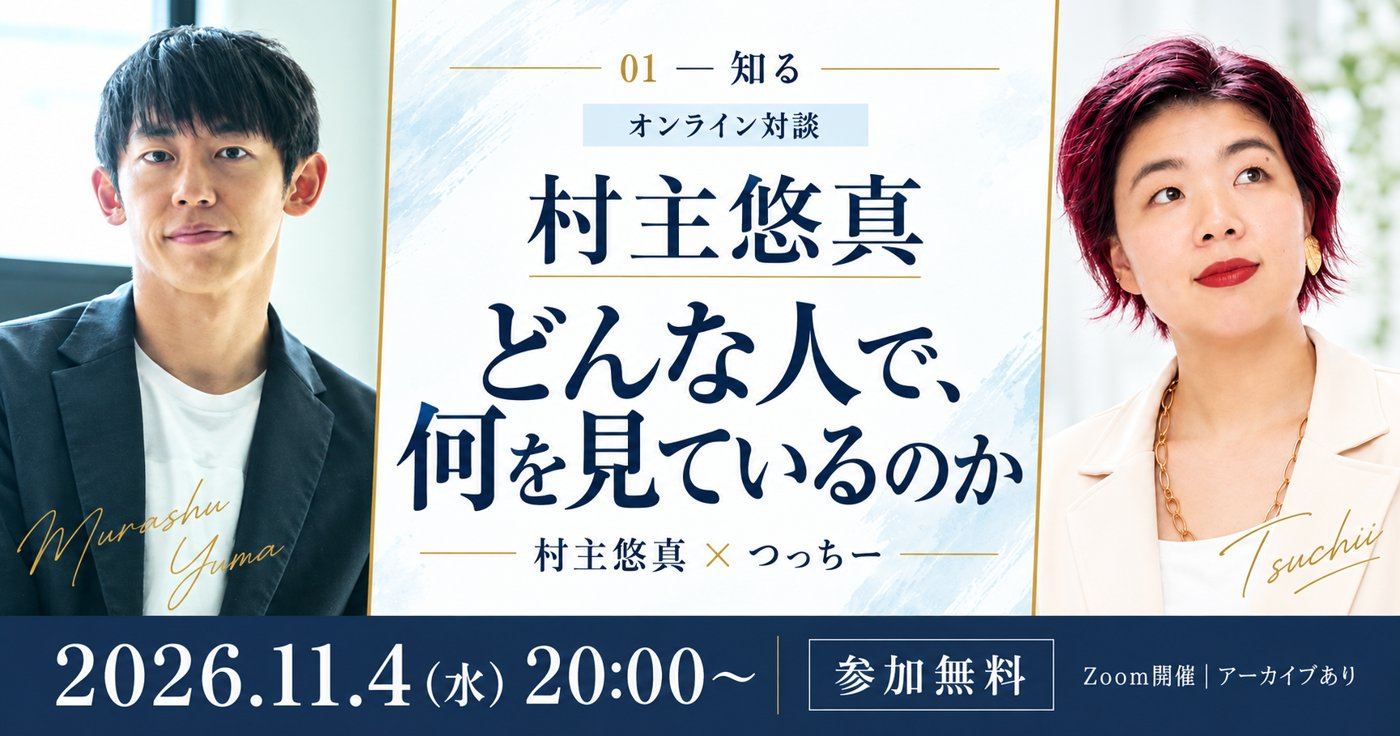
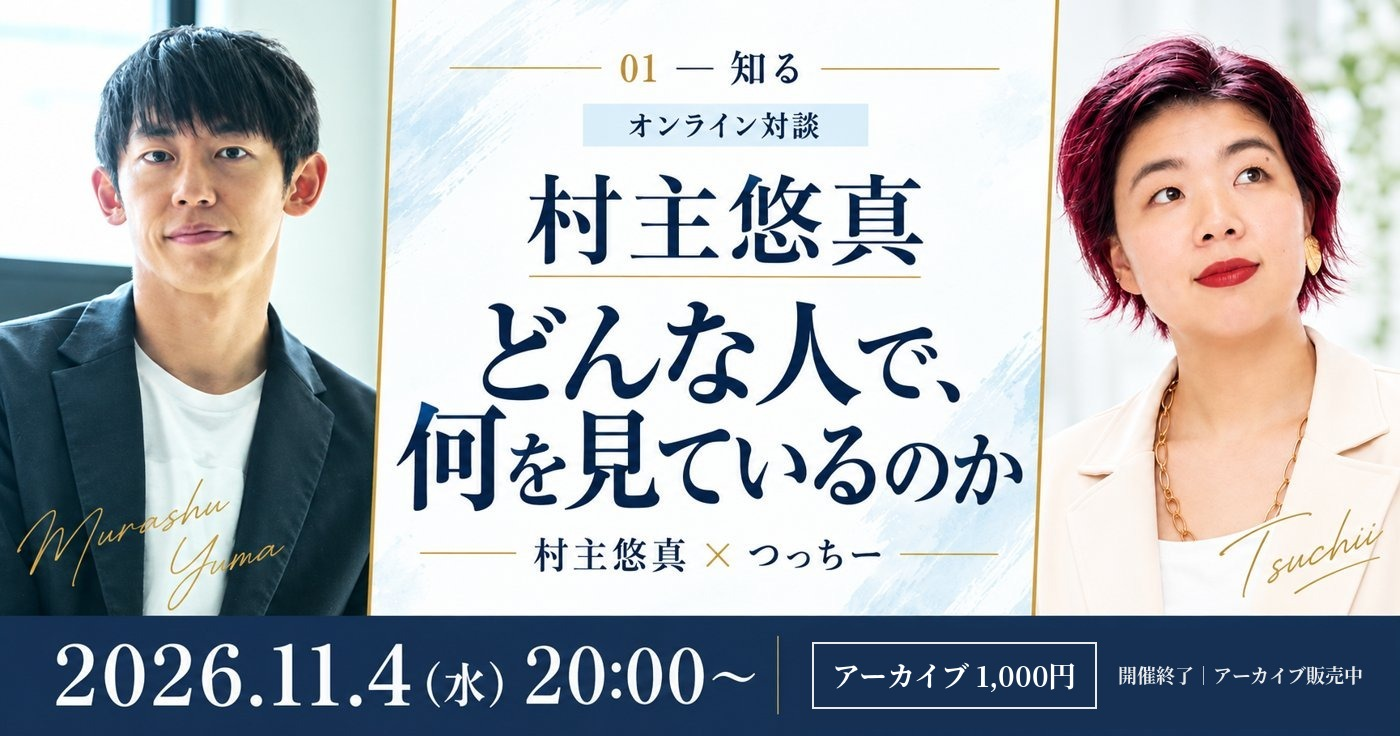
Sell 11/4 archive for 1000 yen; send URL after payment

Changed region(s): [[0.5529, 0.8438, 0.9829, 0.9688]]

diff --git a/index.html b/index.html
@@ -5,9 +5,9 @@
 <meta name="google-site-verification" content="YMH1QN5u1BnWx0jN7KNCxugnaE7Qu_VM-VJC9j54nH0" />
 <link rel="canonical" href="https://murasu-dampatsu-lp.vercel.app/">
 <meta name="viewport" content="width=device-width, initial-scale=1">
-<meta name="description" content="村主悠真×つっちー「2027年をどう生きるか」。11/4オンライン対談（無料）、11/27講演会6,600円（会場・オンライン）・講演会＋懇親会セット15,500円（限定30名）、12/21虚点11,000円（会場は限定20名・オンラインあり）。11月・12月の両方に参加できる「冬の通し券」24,400円・ライト15,800円もあり。ペア割は1人1,500円オフ。講演会・セットは学生半額。">
+<meta name="description" content="村主悠真×つっちー「2027年をどう生きるか」。11/4オンライン対談アーカイブ1,000円、11/27講演会6,600円（会場・オンライン）・講演会＋懇親会セット15,500円（限定30名）、12/21虚点11,000円（会場は限定20名・オンラインあり）。11月・12月の両方に参加できる「冬の通し券」24,400円・ライト15,800円もあり。ペア割は1人1,500円オフ。講演会・セットは学生半額。">
 <meta property="og:title" content="2027年をどう生きるか ─ 村主悠真 × つっちー">
-<meta property="og:description" content="村主悠真×つっちー。11/4オンライン対談（無料）／11/27講演会6,600円（会場・オンライン）・講演会＋懇親会セット15,500円（限定30名）／12/21虚点11,000円（会場は限定20名・オンラインあり）／冬の通し券24,400円・ライト15,800円。ペア割は1人1,500円オフ。講演会・セットは学生半額。">
+<meta property="og:description" content="村主悠真×つっちー。11/4オンライン対談アーカイブ1,000円／11/27講演会6,600円（会場・オンライン）・講演会＋懇親会セット15,500円（限定30名）／12/21虚点11,000円（会場は限定20名・オンラインあり）／冬の通し券24,400円・ライト15,800円。ペア割は1人1,500円オフ。講演会・セットは学生半額。">
 <meta property="og:image" content="https://murasu-dampatsu-lp.vercel.app/og2.jpg">
 <title>2027年をどう生きるか ─ 村主悠真 × つっちー</title>
 <link rel="stylesheet" href="https://fonts.googleapis.com/css2?family=Shippori+Mincho:wght@500;700;800&family=Noto+Sans+JP:wght@400;500&family=Cormorant+Garamond:wght@500&display=swap">
@@ -268,7 +268,7 @@ footer{text-align:center;font-size:12px;color:var(--mu);padding:36px 0 56px;back
    <div class="hook">急きょ開催決定。<br>年明けからはなかなかお会いできなくなるため、<br>村主さんの話を直接聴ける貴重な機会です。</div>
    <div class="hcta">
     <a class="btn big" href="#apply">参加を申し込む<span class="arw">→</span></a>
-    <ul class="hpoints"><li class="early">11/6（金）までの申し込みで11/27が<b>1,000円オフ</b></li><li>11/4 オンライン対談は<b>無料</b></li><li><b>1回だけ</b>の参加もOK</li><li>申し込みは<b>1分</b>で完了</li></ul>
+    <ul class="hpoints"><li class="early">11/6（金）までの申し込みで11/27が<b>1,000円オフ</b></li><li>11/4 対談の<b>アーカイブ販売中</b>（1,000円）</li><li><b>1回だけ</b>の参加もOK</li><li>申し込みは<b>1分</b>で完了</li></ul>
    </div>
   </div>
   <div class="duo">
@@ -281,7 +281,7 @@ footer{text-align:center;font-size:12px;color:var(--mu);padding:36px 0 56px;back
 
 <section class="sched">
  <div class="wrap">
-  <div class="row"><div class="d">11/4<small>（水）</small><span style="font-size:22px">20時〜</span></div><div class="w">オンライン対談<small>（Zoom・アーカイブあり）</small></div></div>
+  <div class="row"><div class="d">11/4<small>（水）</small><span style="font-size:22px">20時〜</span></div><div class="w">オンライン対談<small>（開催終了・アーカイブ販売中 1,000円）</small></div></div>
   <div class="row"><div class="d">11/27<small>（金）</small><span style="font-size:22px">18:00〜21:00</span></div><div class="w">講演会＆懇親会　<span class="loc">会場：東京都内</span><small>（講演会はオンライン参加・アーカイブあり）</small></div></div>
   <div class="row"><div class="d">12/21<small>（月）</small><span style="font-size:22px">18:00〜21:00</span></div><div class="w">虚点　<span class="loc">会場：東京都内</span><small>（対談＋交流会／オンライン・アーカイブあり）</small></div></div>
  </div>
@@ -379,10 +379,10 @@ footer{text-align:center;font-size:12px;color:var(--mu);padding:36px 0 56px;back
   <h2>3つのイベント</h2>
 
   <div class="night">
-   <img class="nbn" src="ev1104.jpg" alt="11/4 オンライン対談のバナー" loading="lazy">
+   <img class="nbn" src="ev1104.jpg?v=2" alt="11/4 オンライン対談のバナー" loading="lazy">
    <div><div class="no">01 ─ 知る</div><div class="date">11.4<small>水</small></div></div>
    <div>
-    <span class="tag">オンライン対談</span> <span class="tag">アーカイブあり</span>
+    <span class="tag">オンライン対談</span> <span class="tag loc2">開催終了・アーカイブ販売中</span>
     <h3>村主悠真<br>─ どんな人で、何を見ているのか</h3>
     <p>村主悠真 × つっちーの対談。村主さんがどんな人生を歩み、今どんなことを考えているのか。そして、社会・お金・人のつながり、AI、戦争と世界平和など、2027年に向けて時代がどう変わっていくのかを、村主さんの視点であらためてお話しいただきます。はじめての人も、これまで村主さんの話を聴いてきた人も楽しめる時間です。</p>
     <div class="more">
@@ -390,7 +390,7 @@ footer{text-align:center;font-size:12px;color:var(--mu);padding:36px 0 56px;back
      <div class="mh">こんな人におすすめ</div><p class="rec">村主さんの話をはじめて聴く人／これまで聴いてきたけれど、今の村主さんの視点をあらためて聴きたい人／AIや戦争など、世界の変化をどう受け止めればいいか知りたい人</p>
      <div class="mh">当日の流れ</div><ol class="flow"><li>20:00 対談スタート</li><li>村主さんの歩みと、いま考えていること</li><li>社会・お金・AI・戦争と世界平和から見る、2027年の時代の変化</li><li>参加者からの質問</li><li>11/27・12/21のご案内</li></ol>
     </div>
-    <dl><dt>時間</dt><dd>20:00〜</dd><dt>場所</dt><dd>オンライン（Zoom／参加URLは、お申し込みの方にメールとオープンチャットでお知らせ）</dd><dt>参加費</dt><dd>無料</dd><dt>アーカイブ</dt><dd>あり（当日参加できなくても、あとから見られます）</dd></dl>
+    <dl><dt>開催</dt><dd>2026年11月4日（水）20:00〜　オンラインで開催しました</dd><dt>アーカイブ</dt><dd><b>1,000円</b>（お支払いを確認したあと、視聴URLをメールでお送りします）</dd></dl>
    </div>
   </div>
 
@@ -509,7 +509,7 @@ footer{text-align:center;font-size:12px;color:var(--mu);padding:36px 0 56px;back
    <p class="note" style="margin-top:10px">※ 通し券は早割の対象外です（ペア割・学生割は使えます）</p>
   </div>
   <div class="price">
-   <div class="card"><div class="t">11/4 オンライン対談</div><div class="y">無料</div><div class="n">まずはここから／アーカイブあり</div></div>
+   <div class="card"><div class="t">11/4 対談アーカイブ</div><div class="y">1,000<small>円</small></div><div class="n">まずはここから／お支払い後に視聴URLをメールでお送りします</div></div>
    <div class="card"><div class="t">11/27 講演会</div><div class="y">6,600<small>円</small></div><div class="n">会場・オンライン同額（アーカイブ付き）／学生 3,300円</div></div>
    <div class="card rec"><div class="t">11/27 講演会＋懇親会<br><small>東京都内</small></div><div class="y">15,500<small>円</small></div><div class="n"><b>限定30名</b>／学生 7,750円<br>懇親会は村主さんに直接質問できるミニグループコンサル<br><span class="seat" data-plan="11/27 講演会＋懇親会セット"></span></div></div>
    <div class="card"><div class="t">12/21 虚点<br><small>東京都内</small></div><div class="y">11,000<small>円</small></div><div class="n">会場（飲み放題・<b>限定20名</b>）／オンライン（アーカイブ付き）<br><span class="seat" data-plan="12/21 虚点"></span></div></div>
@@ -526,8 +526,8 @@ footer{text-align:center;font-size:12px;color:var(--mu);padding:36px 0 56px;back
  <div class="wrap">
   <div class="en">FAQ</div>
   <h2>よくある質問</h2>
-  <details><summary>虚次元のことを何も知らなくても大丈夫？</summary><p>大丈夫です。11/4のオンライン対談は、村主さんの話をはじめて聴く方向けの内容です。</p></details>
-  <details><summary>当日参加できません</summary><p>11/4のオンライン対談、11/27の講演会、12/21の虚点は、どれもアーカイブがあるので、あとから見られます。11/27の講演会と12/21の虚点はオンライン参加もできます。ただ、その場でしか生まれない空気や質問のやりとりもあるので、できればリアルタイムでの参加をおすすめします。</p></details>
+  <details><summary>虚次元のことを何も知らなくても大丈夫？</summary><p>大丈夫です。11/4のオンライン対談は、村主さんの話をはじめて聴く方向けの内容です。アーカイブ（1,000円）で見られるので、まずはここからがおすすめです。</p></details>
+  <details><summary>当日参加できません</summary><p>11/27の講演会と12/21の虚点は、アーカイブがあるので、あとから見られます（11/4の対談もアーカイブを1,000円で販売しています）。11/27の講演会と12/21の虚点はオンライン参加もできます。ただ、その場でしか生まれない空気や質問のやりとりもあるので、できればリアルタイムでの参加をおすすめします。</p></details>
   <details><summary>1回だけの参加もできますか？</summary><p>できます。どの回からでも参加できます。</p></details>
   <details><summary>ペア割はどう使いますか？</summary><p>申し込みフォームで「ペアで申し込む」にチェックを入れ、一緒に参加する方のお名前とメールアドレスを書いてください。お一人につき1,500円オフ（2人で3,000円オフ）になります。</p></details>
   <details><summary>学生割はありますか？</summary><p>11/27の講演会・セットは、学生の方は半額です（講演会3,300円・セット7,750円）。申し込みフォームで「学生です」にチェックを入れてください。当日、学生証を確認させていただく場合があります。</p></details>
@@ -540,12 +540,12 @@ footer{text-align:center;font-size:12px;color:var(--mu);padding:36px 0 56px;back
  <div class="wrap">
   <div class="en">APPLY</div>
   <h2>参加申し込み</h2>
-  <p>まずは無料のオンライン対談（11/4 20時〜）から。</p>
+  <p>11/27・12/21のイベントと、11/4 対談のアーカイブ（1,000円）をお申し込みいただけます。</p>
   <form id="f" class="form" novalidate>
    <label>お名前<em>必須</em><input name="name" required maxlength="100" autocomplete="name"></label>
    <label>メールアドレス<em>必須</em><input name="email" type="email" required maxlength="200" autocomplete="email"></label>
    <fieldset><legend>参加する回<em>1つ以上</em></legend>
-    <label class="ck"><input type="checkbox" name="plan" value="11/4 オンライン対談" data-p="0">11/4（水）オンライン対談<span>無料・アーカイブあり</span></label>
+    <label class="ck"><input type="checkbox" name="plan" value="11/4 対談アーカイブ" data-p="1000" data-arch="1">11/4 オンライン対談 アーカイブ<small class="sub">お支払い確認後、視聴URLをメールでお送りします</small><span>1,000円</span></label>
     <div class="passlbl">★ 11月・12月 両方参加でおトク「冬の通し券」</div>
     <label class="ck passck"><input type="checkbox" name="plan" value="冬の通し券（会場）" data-p="24400" data-g="pass" data-need="11/27 講演会＋懇親会セット,12/21 虚点">冬の通し券（会場）<small class="sub">11/27 講演会＋懇親会 ＋ 12/21 虚点・東京都内</small><span>24,400円（2,100円お得）<em class="seat2" data-need="11/27 講演会＋懇親会セット,12/21 虚点"></em></span></label>
     <label class="ck passck"><input type="checkbox" name="plan" value="冬の通し券 ライト（会場）" data-p="15800" data-g="pass" data-need="12/21 虚点">冬の通し券 ライト・会場<small class="sub">11/27 講演会 ＋ 12/21 虚点・東京都内</small><span>15,800円（1,800円お得）</span></label>
@@ -593,17 +593,17 @@ if(REF){var ri=document.getElementById('referrer');ri.value=REF;var rn=document.
 var EARLY=Date.now()<=Date.parse('2026-11-06T23:59:59+09:00');if(!EARLY)document.querySelectorAll('.early').forEach(function(e){e.remove()});
 var f=document.getElementById('f'),pair=document.getElementById('pair'),pn=document.getElementById('pairname');
 function person(c,stu){
- var p=0;f.querySelectorAll('input[name=plan]:checked').forEach(function(x){var v=+x.dataset.p;if(stu&&(x.value.indexOf('11/27')===0||x.value.indexOf('冬の通し券')===0))v=v/2;p+=v});
+ var p=0;f.querySelectorAll('input[name=plan]:checked').forEach(function(x){if(x.dataset.arch)return;var v=+x.dataset.p;if(stu&&(x.value.indexOf('11/27')===0||x.value.indexOf('冬の通し券')===0))v=v/2;p+=v});
  if(EARLY&&c.some(function(v){return v.indexOf('11/27')===0}))p=Math.max(0,p-1000);
  return p;
 }
 function calc(){
  var c=[].slice.call(f.querySelectorAll('input[name=plan]:checked')).map(function(x){return x.value});
  var stu=document.getElementById('student').checked,pst=document.getElementById('pstudent').checked;
- var a=person(c,stu),p=a,notes=[];
+ var ar=c.indexOf('11/4 対談アーカイブ')>-1?1000:0;var a=person(c,stu),p=a+ar,notes=[];
  if(EARLY&&c.some(function(v){return v.indexOf('11/27')===0}))notes.push('早割（1,000円オフ）');
  if(stu)notes.push('学生半額');
- if(pair.checked){var b=person(c,pst);if(pst&&!stu)notes.push('同伴者 学生半額');p=Math.max(0,a-1500)+Math.max(0,b-1500);if(a>0||b>0)notes.push('2人分・ペア割（1人1,500円オフ）');}
+ if(pair.checked){var b=person(c,pst);if(pst&&!stu)notes.push('同伴者 学生半額');p=Math.max(0,a-1500)+Math.max(0,b-1500)+ar*2;if(a>0||b>0)notes.push('2人分・ペア割（1人1,500円オフ）');}
  document.getElementById('sum').textContent=p.toLocaleString();
  document.getElementById('sumnote').textContent=notes.length?notes.join('／')+' 適用':'';
  pn.hidden=!pair.checked;

diff --git a/api/_lib.js b/api/_lib.js
@@ -6,7 +6,8 @@ const NOTIFY_TO = process.env.NOTIFY_TO || "w.closet.k8114@gmail.com";
 const REPLY_TO = process.env.REPLY_TO || "kyoten.zimukyoku@gmail.com";
 const SITE = "https://murasu-dampatsu-lp.vercel.app";
 const PRICES = { "11/4 オンライン対談": 0, "11/27 講演会": 6600, "11/27 講演会（オンライン）": 6600, "11/27 講演会＋懇親会セット": 15500, "12/21 虚点": 11000, "12/21 虚点（オンライン）": 11000,
-  "冬の通し券（会場）": 24400, "冬の通し券 ライト（会場）": 15800, "冬の通し券 ライト（オンライン）": 15800 };
+  "冬の通し券（会場）": 24400, "冬の通し券 ライト（会場）": 15800, "冬の通し券 ライト（オンライン）": 15800, "11/4 対談アーカイブ": 1000 };
+const ARCH = "11/4 対談アーカイブ", ARCH_PRICE = 1000, ARCH_URL = "https://youtu.be/eV8eeX3alE0";
 const PASSES = ["冬の通し券（会場）", "冬の通し券 ライト（会場）", "冬の通し券 ライト（オンライン）"];
 const HALF = ["11/27 講演会", "11/27 講演会（オンライン）", "11/27 講演会＋懇親会セット"].concat(PASSES);
 const LIMITS = { "11/27 講演会＋懇親会セット": 30, "12/21 虚点": 20 };
@@ -25,7 +26,7 @@ const isEarly = (d) => (d ? new Date(d) : new Date()) <= EARLY_END;
 function person(plans, stu, legacy, early) {
   const T = legacy ? Object.assign({}, PRICES, LEGACY) : PRICES;
   const H = legacy ? HALF.concat(["11/27 懇親会"]) : HALF;
-  let p = plans.reduce((a, k) => a + (stu && H.includes(k) ? (T[k] || 0) / 2 : T[k] || 0), 0);
+  let p = plans.filter((k) => k !== ARCH).reduce((a, k) => a + (stu && H.includes(k) ? (T[k] || 0) / 2 : T[k] || 0), 0);
   if (legacy && plans.includes("11/27 講演会") && plans.includes("11/27 懇親会")) p -= stu ? 750 : 1500;
   if (early && !legacy && plans.some((k) => k.startsWith("11/27"))) p -= EARLY_OFF;
   return Math.max(0, p);
@@ -73,11 +74,34 @@ async function sendMail(to, subject, html, bcc) {
   return r.ok;
 }
 
+// アーカイブ購入者に、支払い確認後にURLを送る（1回だけ）
+async function sendArchive(s) {
+  const m = s.metadata || {};
+  if (m.archive !== "yes" || m.archive_sent === "yes") return;
+  await stripe("POST", "checkout/sessions/" + encodeURIComponent(s.id), { "metadata[archive_sent]": "yes" });
+  const to = [s.customer_email || (s.customer_details && s.customer_details.email)].concat(m.pair_email ? [m.pair_email] : []).filter(Boolean);
+  if (!to.length) return;
+  await sendMail(to, "【アーカイブのご案内】11/4 村主悠真×つっちー オンライン対談",
+    `<div style="font-family:sans-serif;line-height:1.9;color:#2a2f3a;max-width:560px">
+<p>${esc(m.name || "")} 様</p>
+<p>こんにちは、つっちーです。<br>11/4 オンライン対談のアーカイブをお申し込みいただき、ありがとうございます。<br>お支払いを確認しました。</p>
+<div style="border:2px solid #b8963e;background:#fbf8f1;padding:16px 20px;margin:16px 0">
+<b>▼ アーカイブはこちら</b><br>
+<a href="${ARCH_URL}" style="display:inline-block;margin-top:10px;background:#16305a;color:#fff;text-decoration:none;padding:10px 22px;border-radius:2px">アーカイブを見る</a><br>
+<small>${ARCH_URL}</small>
+</div>
+<p>※ このURLは、ご購入いただいた方だけのご案内です。ほかの方への共有はご遠慮ください。</p>
+<p>村主さんがどんな人生を歩み、いま何を見ているのか。そして2027年に向けて、時代はどう変わっていくのか。<br>ゆっくり聴いていただけたらうれしいです。</p>
+<p>この続きは、11/27の講演会で、村主さんが「時代の構造」から読み解きます。<br>よろしければ、こちらもご覧ください。<br><a href="${SITE}">${SITE}</a></p>
+<p>つっちー（結び）</p></div>`, [NOTIFY_TO]);
+}
+
 // 決済済みかStripeに確認して、済んでいればDBに記録
 async function confirmSession(sessionId) {
   const s = await stripe("GET", "checkout/sessions/" + encodeURIComponent(sessionId));
   if (!s || s.payment_status !== "paid") return false;
   await rpc("adm_mark_paid", { p_session: sessionId });
+  await sendArchive(s).catch(() => {});
   return true;
 }
 
@@ -88,7 +112,7 @@ async function runReferralRefunds() {
   for (const a of list) {
     const legacy = (a.plans || []).includes("11/27 懇親会") || new Date(a.created_at) < new Date("2026-11-03T00:00:00+09:00");
     const disc = a.referral_discount || 0, refunded = a.refunded_amount || 0;
-    const ownFull = a.pair ? Math.max(0, person(a.plans || [], a.student, legacy, isEarly(a.created_at)) - 1500) : (a.total || 0) + disc;
+    const ownFull = a.pair ? Math.max(0, person(a.plans || [], a.student, legacy, isEarly(a.created_at)) - 1500) : (a.total || 0) + disc - ((a.plans || []).includes(ARCH) ? ARCH_PRICE : 0);
     const hasPass = (a.plans || []).some((k) => PASSES.includes(k));
     const full = hasPass && a.referred >= 4;
     const target = full ? ownFull : Math.min(lectureValue(a.plans, a.student), ownFull);
@@ -113,4 +137,4 @@ async function runReferralRefunds() {
   return done;
 }
 
-module.exports = { SB, SB_KEY, SITE, PRICES, HALF, LIMITS, PASSES, NEEDS, remaining, isEarly, EARLY_OFF, lectureValue, yen, esc, person, rpc, stripe, sendMail, confirmSession, runReferralRefunds };
+module.exports = { ARCH, ARCH_PRICE, SB, SB_KEY, SITE, PRICES, HALF, LIMITS, PASSES, NEEDS, remaining, isEarly, EARLY_OFF, lectureValue, yen, esc, person, rpc, stripe, sendMail, confirmSession, runReferralRefunds };

diff --git a/api/apply.js b/api/apply.js
@@ -1,4 +1,4 @@
-const { rpc, PRICES, HALF, LIMITS, PASSES, NEEDS, remaining, person, isEarly, EARLY_OFF, lectureValue } = require("./_lib");
+const { ARCH, ARCH_PRICE, rpc, PRICES, HALF, LIMITS, PASSES, NEEDS, remaining, person, isEarly, EARLY_OFF, lectureValue } = require("./_lib");
 // 申し込み受付：Supabaseに保存 → 確認メール送信（RESEND_API_KEY があるとき）
 const SB_URL = "https://cczerefroeveoobdlhoj.supabase.co/rest/v1/event_applications";
 const SB_KEY = "eyJhbGciOiJIUzI1NiIsInR5cCI6IkpXVCJ9.eyJpc3MiOiJzdXBhYmFzZSIsInJlZiI6ImNjemVyZWZyb2V2ZW9vYmRsaG9qIiwicm9sZSI6ImFub24iLCJpYXQiOjE3ODc4OTg1NjYsImV4cCI6MjEwMzQ3NDU2Nn0.KsQtf2gYD5EOFYB9Jq-uH8pHI1dVIrUH99J0qkUJy54";
@@ -8,6 +8,7 @@ const REPLY_TO = process.env.REPLY_TO || "kyoten.zimukyoku@gmail.com";
 const ZOOM_1104 = "https://us06web.zoom.us/j/81711000222?pwd=lUX2jfPKkPvRgav3HQfdDtWaMmBuja.1";
 const LABEL = {
   "11/4 オンライン対談": "11/4（水）20:00〜 オンライン対談【オンライン参加・Zoom】",
+  "11/4 対談アーカイブ": "11/4 オンライン対談 アーカイブ【オンライン視聴】",
   "11/27 講演会": "11/27（金）講演会のみ【会場参加・東京都内】",
   "11/27 講演会（オンライン）": "11/27（金）講演会のみ【オンライン参加】",
   "11/27 講演会＋懇親会セット": "11/27（金）講演会＋懇親会セット【会場参加・東京都内】",
@@ -34,10 +35,11 @@ function calc(plans, pair, stu, pstu, referred) {
   const hasPass = plans.some((k) => PASSES.includes(k));
   const discount = hasPass && referred >= 4 ? own : referred >= 2 ? Math.min(lectureValue(plans, stu), own) : 0;
   const partner = pair ? Math.max(0, person(plans, pstu, false, early) - 1500) : 0;
-  return { total: own - discount + partner, set, discount, fullPass: hasPass && referred >= 4 && discount > 0 };
+  const arch = plans.includes(ARCH) ? ARCH_PRICE * (pair ? 2 : 1) : 0;
+  return { total: own - discount + partner + arch, set, discount, fullPass: hasPass && referred >= 4 && discount > 0 };
 }
 
-async function checkout(key, { total, name, email, plans, pair, id }) {
+async function checkout(key, { total, name, email, plans, pair, pair_email, id }) {
   const f = new URLSearchParams();
   f.append("mode", "payment");
   f.append("locale", "ja");
@@ -54,6 +56,8 @@ async function checkout(key, { total, name, email, plans, pair, id }) {
   f.append("metadata[plans]", plans.map(lab).join(" / "));
   f.append("metadata[pair]", pair ? "yes" : "no");
   f.append("metadata[app_ref]", id);
+  if (plans.includes(ARCH)) f.append("metadata[archive]", "yes");
+  if (pair && pair_email) f.append("metadata[pair_email]", pair_email);
   const r = await fetch("https://api.stripe.com/v1/checkout/sessions", {
     method: "POST", headers: { Authorization: "Bearer " + key, "Content-Type": "application/x-www-form-urlencoded" }, body: f.toString(),
   });
@@ -77,7 +81,7 @@ module.exports = async (req, res) => {
   if (typeof b === "string") { try { b = JSON.parse(b); } catch { b = {}; } }
   b = b || {};
   const name = s(b.name, 100), email = s(b.email, 200);
-  const plans = Array.isArray(b.plans) ? b.plans.filter((p) => p in PRICES) : [];
+  const plans = Array.isArray(b.plans) ? b.plans.filter((p) => p in PRICES && p !== "11/4 オンライン対談") : [];
   const pair = !!b.pair;
   const pair_name = pair ? s(b.pair_name, 100) : "";
   const pair_email = pair ? s(b.pair_email, 200) : "";
@@ -107,7 +111,7 @@ module.exports = async (req, res) => {
   let session = null;
   const skey = process.env.STRIPE_SECRET_KEY;
   if (skey && total > 0) {
-    session = await checkout(skey, { total, name, email, plans, pair, id: Date.now().toString(36) });
+    session = await checkout(skey, { total, name, email, plans, pair, pair_email, id: Date.now().toString(36) });
     if (!session || session._err) return res.status(502).json({ error: "stripe", code: session && session._err, detail: session && session._msg });
   }
 
@@ -131,7 +135,7 @@ ${pair ? `<b>一緒に参加する方</b><br>${esc(pair_name)} 様<br><br>` : ""
 ${referrer ? `<b>紹介者</b><br>${esc(referrer)}<br><br>` : ""}
 <b>合計</b>：${yen(total)}${pair ? "（2人分）" : ""}${extra ? `<br><small>${extra} 適用</small>` : ""}
 </div>
-${session ? `<p><b>お支払いについて</b><br>お申し込みのあと表示されたカード決済の画面でお支払いください。まだお済みでない場合は、下のリンクから24時間以内にお支払いいただけます。<br><a href="${session.url}">お支払いページを開く</a></p>` : ""}<p>会場の詳細は、あらためてご連絡します。（11/27・12/21はどちらも18:00〜21:00）</p>
+${session ? `<p><b>お支払いについて</b><br>お申し込みのあと表示されたカード決済の画面でお支払いください。まだお済みでない場合は、下のリンクから24時間以内にお支払いいただけます。<br><a href="${session.url}">お支払いページを開く</a></p>` : ""}${plans.includes(ARCH) ? `<p><b>11/4 対談アーカイブについて</b><br>お支払いを確認したあと、アーカイブのURLをメールでお送りします。</p>` : ""}<p>会場の詳細は、あらためてご連絡します。（11/27・12/21はどちらも18:00〜21:00）</p>
 ${plans.includes("11/4 オンライン対談") ? `<div style="border:2px solid #2d8cff;background:#f2f8ff;padding:16px 20px;margin:16px 0">
 <b>11/4（水）20:00〜 オンライン対談の参加URL（Zoom）</b><br>
 当日はこちらから入室してください。<br>

diff --git a/api/daily-report.js b/api/daily-report.js
@@ -30,6 +30,7 @@ function buildText(s, rem) {
     `・通し券（会場）${pv}名／ライト 会場 ${plv}名／ライト オンライン ${plo}名`,
     ``,
     `■ 11/4 オンライン対談　${n(r, "11/4 オンライン対談")}名`,
+    `■ 11/4 対談アーカイブ販売　${n(r, "11/4 対談アーカイブ")}名（前日比 +${n(r, "11/4 対談アーカイブ", "new24")}）`,
     ``,
     `売上（返金を引いた額）：${yen(s.revenue || 0)}`,
     unpaid ? `※ 決済が済んでいない人：${unpaid}名` : ``,
